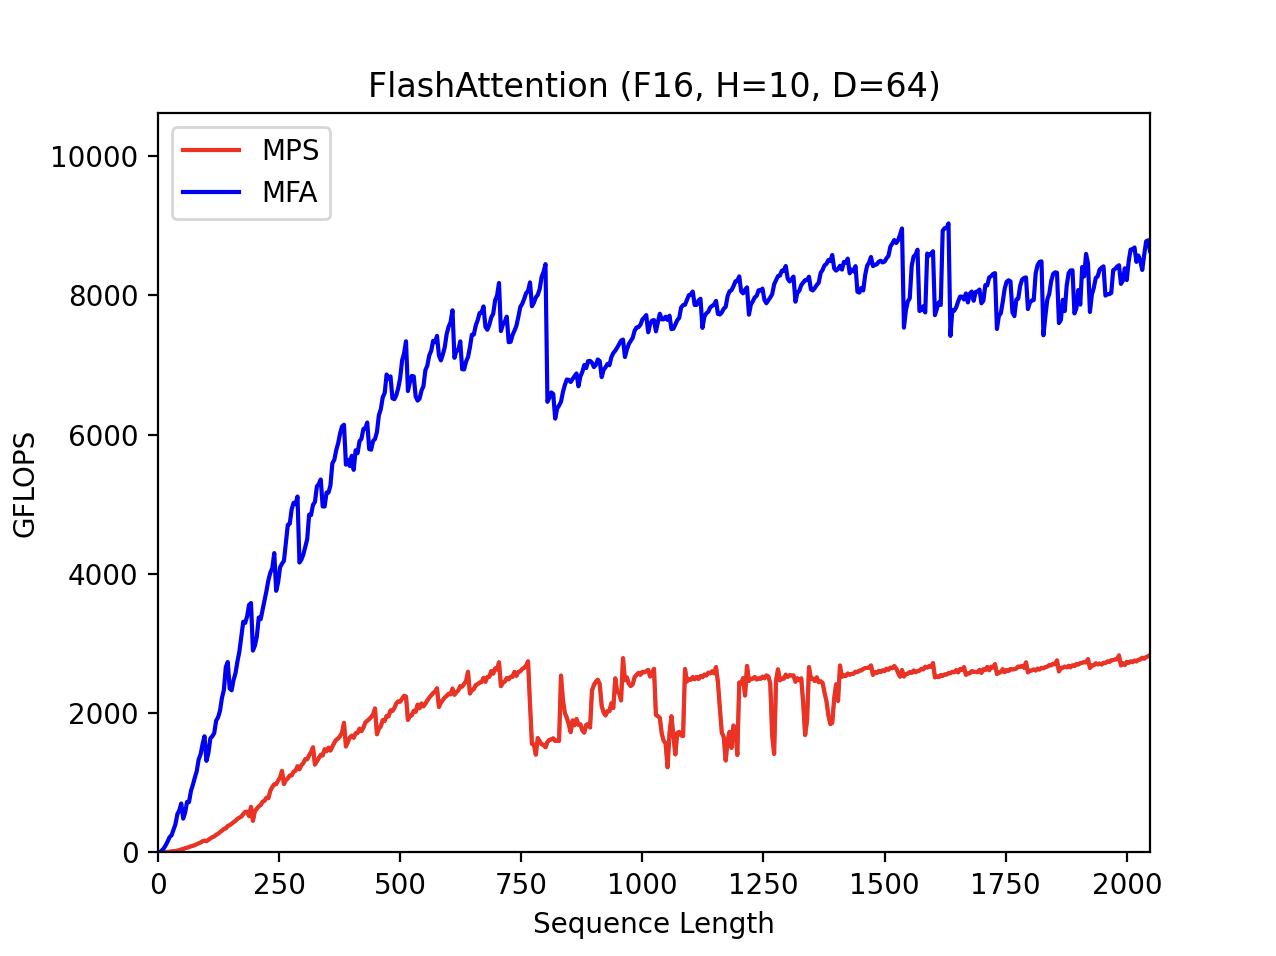
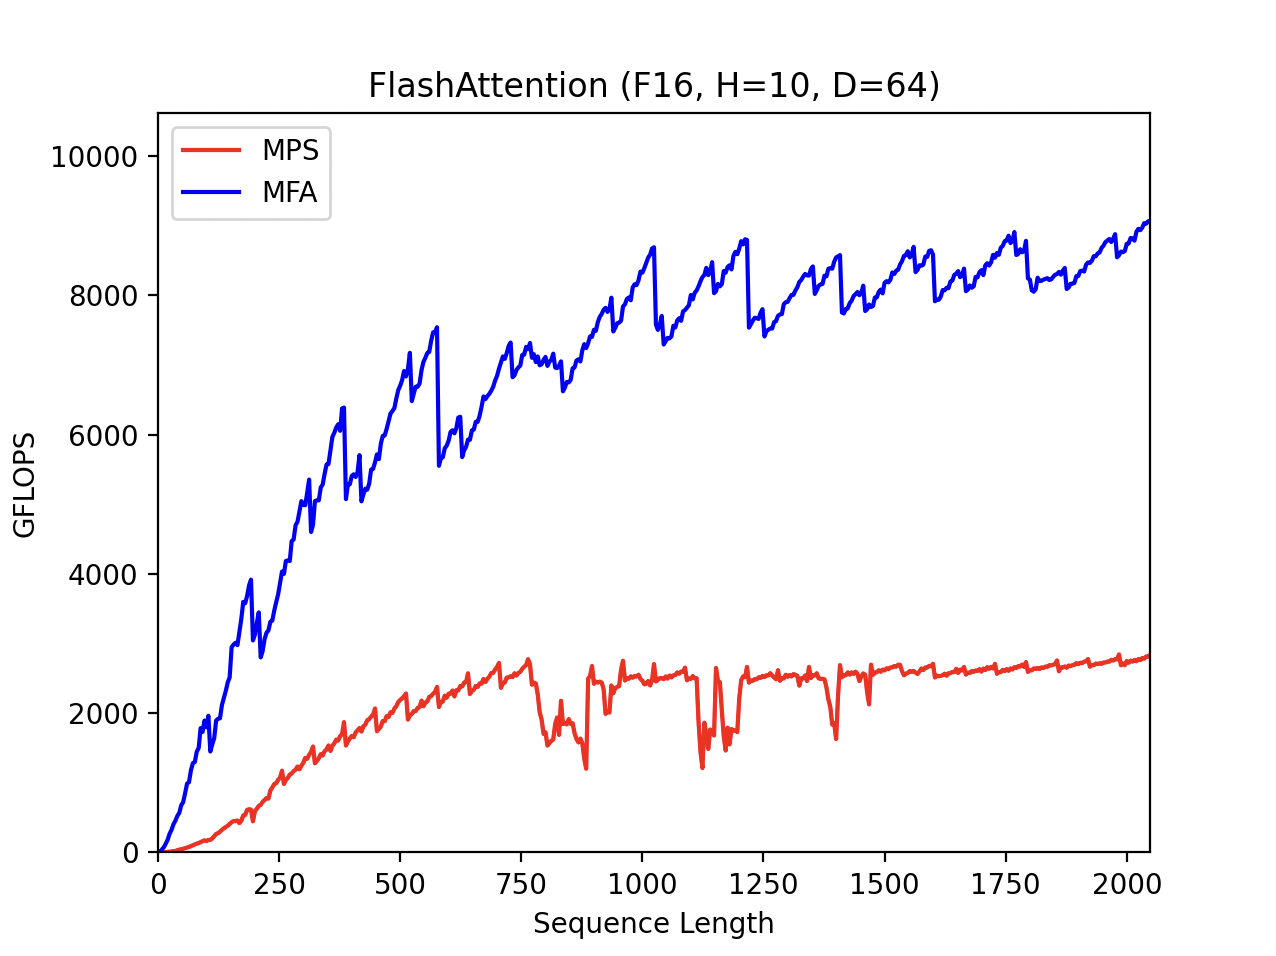
CI for attention

Changed region(s): [[0.1223, 0.2427, 0.9169, 0.8797], [0.3668, 0.6977, 0.7335, 0.819], [0.3056, 0.728, 0.3362, 0.7584]]

diff --git a/Tests/Test Cases/AttentionPerfTests.swift b/Tests/Test Cases/AttentionPerfTests.swift
@@ -25,24 +25,28 @@ class AttentionPerfTests: MFATestCase {
     // For causal:
     //   remove the non-MFA backends
     //   narrow the range from 0...1024 to 512...1024
+    // For heads caling:
+    //   sequence length 2048
     //
     // Production:
     // Granularity:
     //   2 (causal), 4 (small), 64 (large), 1+ (head size)
     // Length:
     //   1 (head size), 2 (everything else)
+    // For heads scaling:
+    //   sequence length 4096
     
-//    let duration = Duration(granularity: 64, length: 2)
+//    let duration = Duration(granularity: 2, length: 2)
 //    let (domain, ranges) = rangeSequenceScaling(
-//      duration: duration, type: .large)
-//    
-//    var backends = SequenceType.large.backends
+//      duration: duration, type: .causal)
+//
+//    let backends = SequenceType.causal.backends
 //    backends = backends.compactMap {
 //      if $0.isMPS { return nil }
 //      return $0
 //    }
     
-    let duration = Duration(granularity: 8, length: 1)
+    let duration = Duration(granularity: 1, length: 1)
     let (domain, ranges) = rangeHeadScaling(duration: duration)
     let backends = [AttentionBackend.mps, AttentionBackend.mfa]
     testAttention(
@@ -260,12 +264,13 @@ class AttentionPerfTests: MFATestCase {
     var domain: ClosedRange<Int>
     var parameters: [SIMD4<Int>]
     if type == .causal {
-      domain = 512...1024
+//      domain = 512...1024
+      domain = 0...1024
       parameters = [
-//        SIMD4(granularity, 192, 256, 8),
-//        SIMD4( 192,  256, 128, 8),
-//        SIMD4( 256,  384,  64, 8),
-//        SIMD4( 384,  512,  32, 8),
+        SIMD4(granularity, 192, 256, 8),
+        SIMD4( 192,  256, 128, 8),
+        SIMD4( 256,  384,  64, 8),
+        SIMD4( 384,  512,  32, 8),
         SIMD4( 512,  768,  16, 8),
         SIMD4( 768, 1025,   8, 8),
       ]
@@ -351,25 +356,34 @@ class AttentionPerfTests: MFATestCase {
     let granularity = duration.granularity
     let domain = 0...384
     let parameters: [SIMD4<Int>] = [
+      // Prototyping:
+//      SIMD4(granularity, 32,  16, granularity * 1),
+//      SIMD4(         32, 64,   8, granularity * 1),
+//      SIMD4(         64, 160,  4, granularity * 2),
+//      SIMD4(        160, 385,  4, granularity * 4),
+      
+      // Production:
       SIMD4(granularity, 32,  16, granularity * 1),
       SIMD4(         32, 64,   8, granularity * 1),
-      SIMD4(         64, 160,  4, granularity * 2),
-      SIMD4(        160, 385,  4, granularity * 4),
+      SIMD4(         64, 128,  4, granularity * 2),
+      SIMD4(        128, 256,  2, granularity * 4),
+      SIMD4(        256, 385,  2, granularity * 16),
     ]
+    let sequenceLength = 4096
     
     return (domain, parameters.indices.map { i in
       let parameter = parameters[i]
       let start = AttentionConfig(
         B: 1,
-        R: 2048,
-        C: 2048,
+        R: sequenceLength,
+        C: sequenceLength,
         H: 8,
         D: parameter[0],
         sparsityPercent: -1)
       let end = AttentionConfig(
         B: 1,
-        R: 2048,
-        C: 2048,
+        R: sequenceLength,
+        C: sequenceLength,
         H: 8,
         D: parameter[1],
         sparsityPercent: -1)

diff --git a/README.md b/README.md
@@ -158,7 +158,7 @@ Scaling by sequence length:
 
 Scaling by head size:
 - Masking: dense, no mask
-- Sequence length 2048
+- Sequence length 4096
 - Head size: every integer
   - &le;64: every integer
   - &gt;64: every `roundUpToPowerOf2(D/64)` integers
@@ -204,11 +204,13 @@ Dense: Stable Diffusion 2 outermost attention layer @ 512x512 (sequence length =
 
 ### Float16 Sequence Scaling (Causal Mask)
 
-### Float32 Head Scaling
+![FlashAttention (F16, H=10, D=64)](./CI/float16-causal-sequences-latest.png)
 
 ### Float16 Head Scaling
 
 Dense: Stable Diffusion 1 outermost attention layer @ 512x512 (head size = 40)
+
+![FlashAttention (F16, R=C=4096, H=8)](./CI/float16-head-sizes-latest.png)
 
 ### Float16 Sparsity Scaling
 
